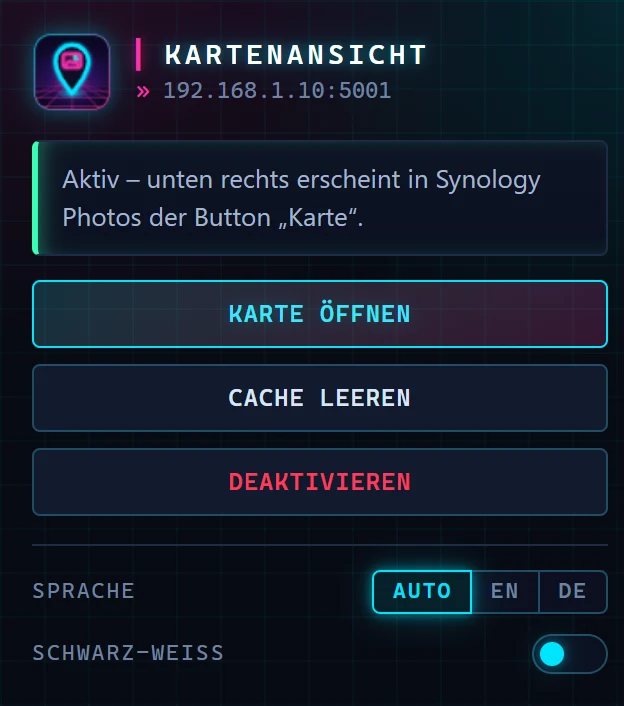
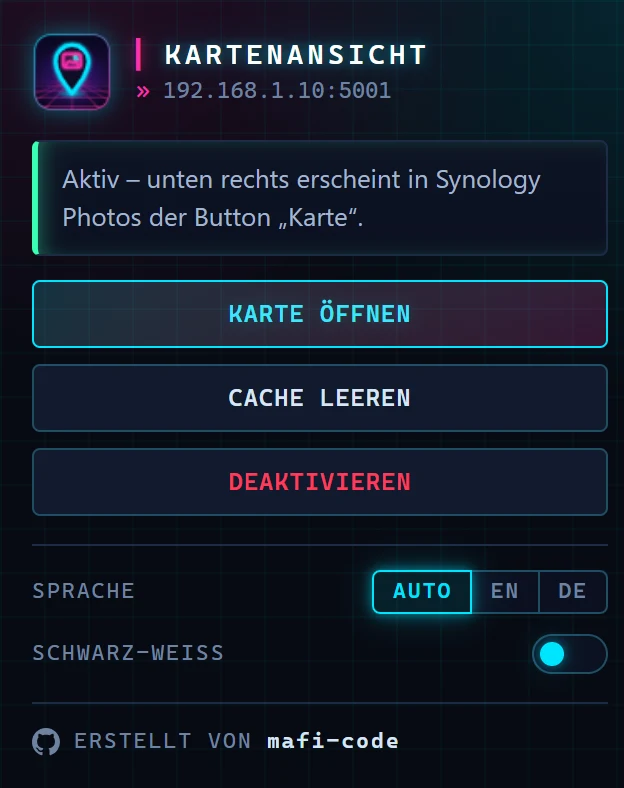
Add "Created by mafi-code" link to the popup
- Popup footer with GitHub icon linking to the repository, localized
  ("Created by" / "Erstellt von", tooltip "Source on GitHub")
- Popup supports data-i18n-title for localized tooltips
- Screenshots and project pages updated; version 0.3.1

diff --git a/popup.html b/popup.html
@@ -221,6 +221,28 @@
       transition: transform 0.15s ease;
     }
     #theme-toggle[aria-checked="true"]::after { transform: translateX(18px); }
+
+    /* link to the repository */
+    .gh {
+      display: flex;
+      align-items: center;
+      gap: 7px;
+      margin-top: 14px;
+      padding-top: 12px;
+      border-top: 1px solid var(--border);
+      font: 11px/1 var(--mono);
+      letter-spacing: 1px;
+      text-transform: uppercase;
+      color: var(--muted);
+      text-decoration: none;
+    }
+    .gh svg { width: 14px; height: 14px; fill: currentColor; flex: none; }
+    .gh-name { font-weight: 600; text-transform: none; color: var(--text); }
+    .gh:hover .gh-name { color: var(--accent); }
+    .gh:hover { color: var(--accent); text-shadow: var(--glow); }
+    .gh:hover svg { filter: drop-shadow(0 0 4px color-mix(in srgb, var(--accent) 60%, transparent)); }
+    :root[data-theme="mono"] .gh:hover svg { filter: none; }
+    .gh:focus-visible { outline: 2px solid var(--accent); outline-offset: 3px; }
     @media (prefers-reduced-motion: reduce) { button, #theme-toggle::after { transition: none; } }
   </style>
 </head>
@@ -250,6 +272,11 @@
     <span id="theme-label" data-i18n="popupMono">Black &amp; white</span>
     <button id="theme-toggle" type="button" role="switch" aria-checked="false" aria-labelledby="theme-label"></button>
   </div>
+  <a class="gh" href="https://github.com/mafi-code/maps-extension-for-synology-photos" target="_blank" rel="noopener" data-i18n-title="popupGithub" title="Source on GitHub">
+    <svg viewBox="0 0 16 16" aria-hidden="true"><path d="M8 0C3.58 0 0 3.58 0 8c0 3.54 2.29 6.53 5.47 7.59.4.07.55-.17.55-.38 0-.19-.01-.82-.01-1.49-2.01.37-2.53-.49-2.69-.94-.09-.23-.48-.94-.82-1.13-.28-.15-.68-.52-.01-.53.63-.01 1.08.58 1.23.82.72 1.21 1.87.87 2.33.66.07-.52.28-.87.51-1.07-1.78-.2-3.64-.89-3.64-3.95 0-.87.31-1.59.82-2.15-.08-.2-.36-1.02.08-2.12 0 0 .67-.21 2.2.82.64-.18 1.32-.27 2-.27.68 0 1.36.09 2 .27 1.53-1.04 2.2-.82 2.2-.82.44 1.1.16 1.92.08 2.12.51.56.82 1.27.82 2.15 0 3.07-1.87 3.75-3.65 3.95.29.25.54.73.54 1.48 0 1.07-.01 1.93-.01 2.2 0 .21.15.46.55.38A8.013 8.013 0 0016 8c0-4.42-3.58-8-8-8z"/></svg>
+    <span data-i18n="popupCreatedBy">Created by</span>
+    <span class="gh-name">mafi-code</span>
+  </a>
   <script src="popup.js"></script>
 </body>
 </html>

diff --git a/docs/de.html b/docs/de.html
@@ -335,7 +335,7 @@
           </ol>
         </div>
         <figure class="popup-shot">
-          <div class="frame"><img src="screenshots/de/05-popup-ui.webp" width="624" height="706" loading="lazy" decoding="async" alt="Popup der Erweiterung: NAS-Adresse, Status „Aktiv“, die Buttons „Karte öffnen“, „Cache leeren“ und „Deaktivieren“ die Sprachwahl (Auto / EN / DE) sowie der Schalter „Schwarz-Weiß“."></div>
+          <div class="frame"><img src="screenshots/de/05-popup-ui.webp" width="624" height="788" loading="lazy" decoding="async" alt="Popup der Erweiterung: NAS-Adresse, Status „Aktiv“, die Buttons „Karte öffnen“, „Cache leeren“ und „Deaktivieren“ die Sprachwahl (Auto / EN / DE) sowie der Schalter „Schwarz-Weiß“."></div>
           <figcaption>Das Popup: aktivieren, Karte öffnen, Cache leeren, Sprache, Schwarz-Weiß-Modus.</figcaption>
         </figure>
       </div>

diff --git a/docs/index.html b/docs/index.html
@@ -335,7 +335,7 @@
           </ol>
         </div>
         <figure class="popup-shot">
-          <div class="frame"><img src="screenshots/en/05-popup-ui.webp" width="624" height="706" loading="lazy" decoding="async" alt="Extension popup: NAS address, status “Active”, the buttons “Open map”, “Clear cache” and “Disable”, the language selector (Auto / EN / DE) and the “Black &amp; white” switch."></div>
+          <div class="frame"><img src="screenshots/en/05-popup-ui.webp" width="624" height="788" loading="lazy" decoding="async" alt="Extension popup: NAS address, status “Active”, the buttons “Open map”, “Clear cache” and “Disable”, the language selector (Auto / EN / DE) and the “Black &amp; white” switch."></div>
           <figcaption>The popup: enable, open the map, clear the cache, language, black &amp; white mode.</figcaption>
         </figure>
       </div>

diff --git a/popup.js b/popup.js
@@ -20,6 +20,7 @@ const msg = (key, ...subs) => {
 function applyI18n() {
   document.documentElement.lang = langPack ? langPack.lang : chrome.i18n.getUILanguage();
   document.querySelectorAll('[data-i18n]').forEach((el) => { el.textContent = msg(el.dataset.i18n); });
+  document.querySelectorAll('[data-i18n-title]').forEach((el) => { el.title = msg(el.dataset.i18nTitle); });
   if (stateKey) $('state').textContent = msg(stateKey);
   const current = langPack ? langPack.lang : 'auto';
   document.querySelectorAll('.seg [data-lang]').forEach((b) => b.setAttribute('aria-checked', String(b.dataset.lang === current)));
